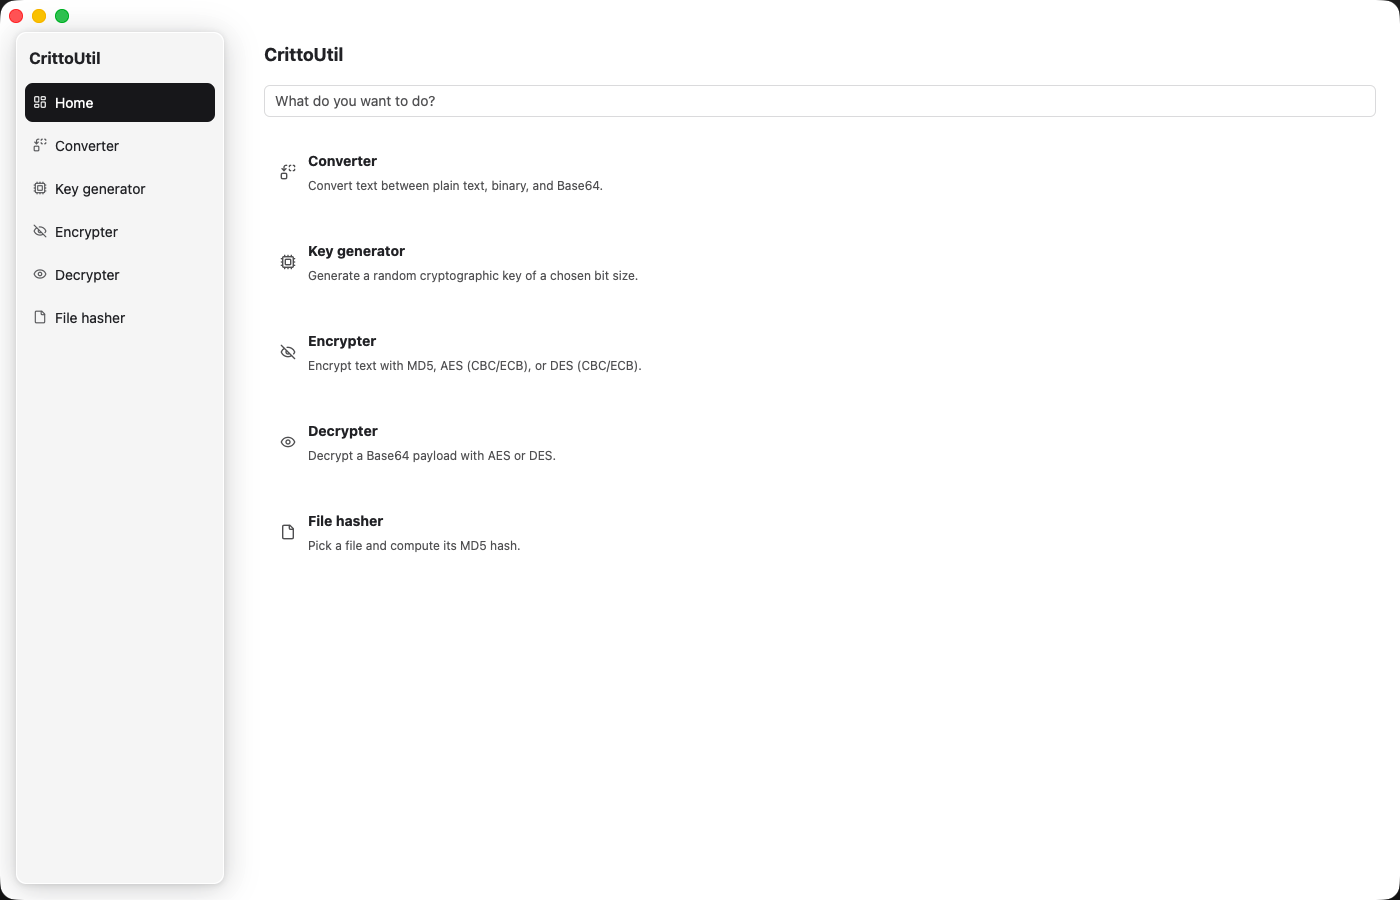
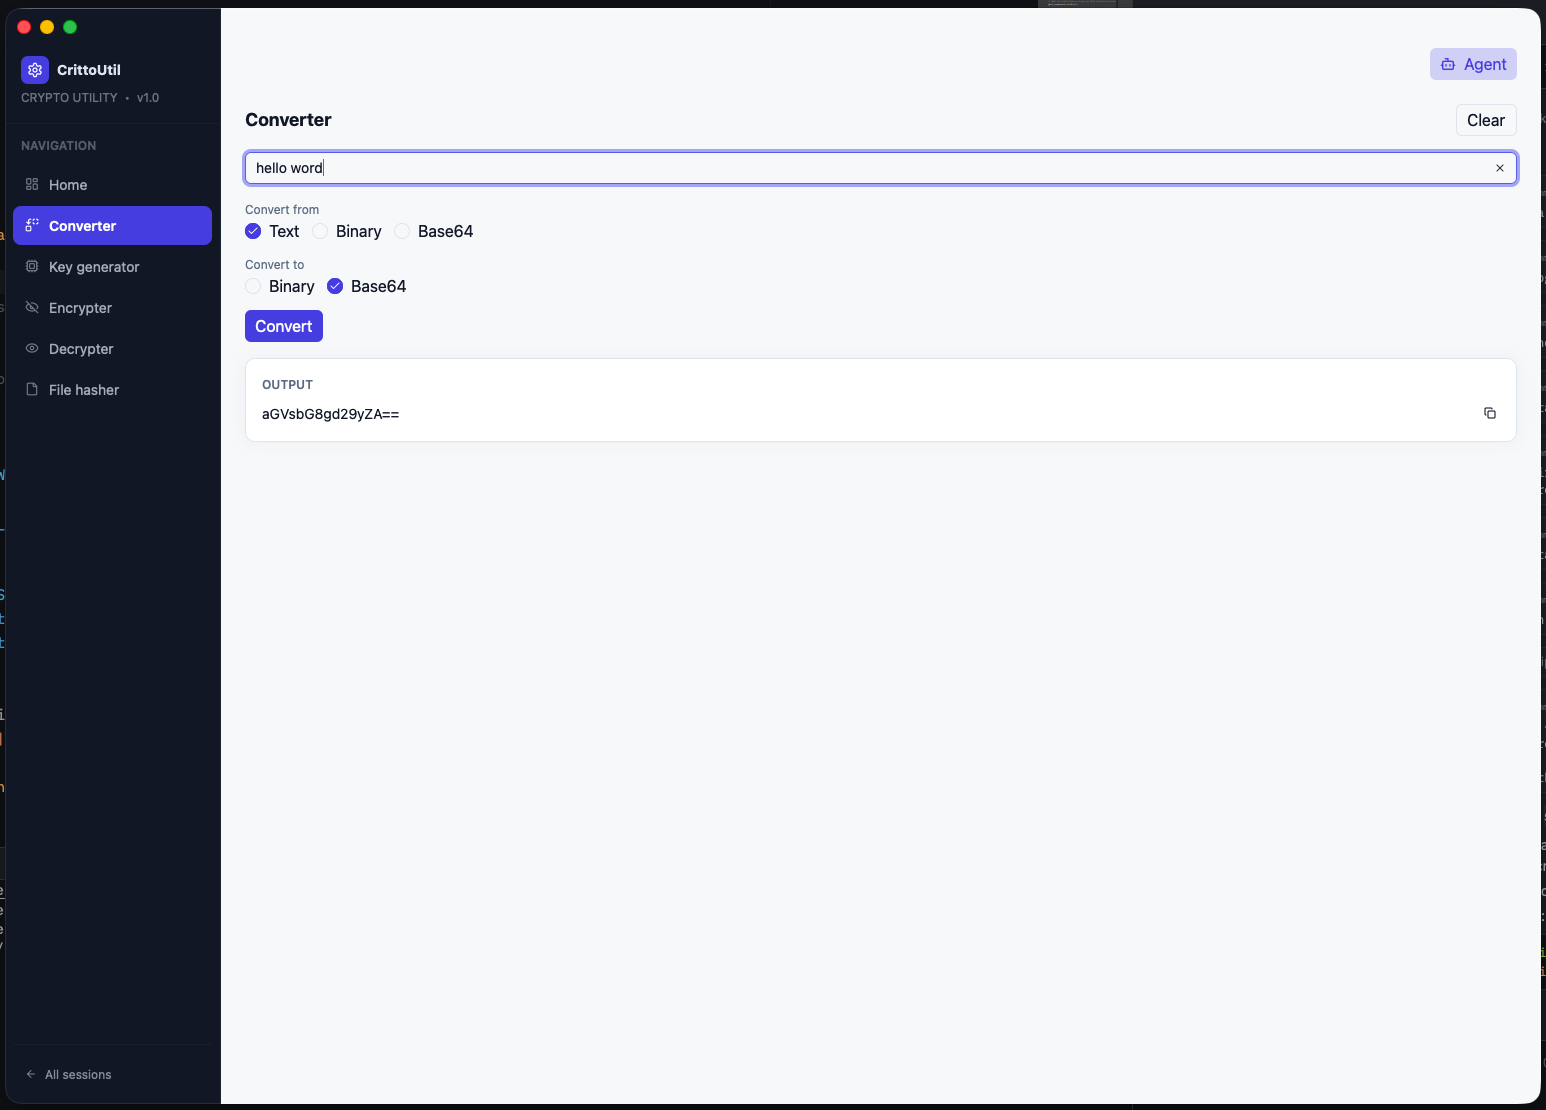
docs: refresh screenshots (edge-to-edge sidebar, slate+indigo)

diff --git a/README.md b/README.md
@@ -14,7 +14,7 @@ features, same validation rules, but native Rust UI instead of a webview.
   <img src="screenshots/04-keygen.png" width="49%" alt="Key Generator screen" />
 </p>
 
-> **Note:** screenshots above still show the previous floating-card sidebar. Since `dc714c0` the sidebar is a full-height edge-to-edge panel with the macOS traffic lights inset (`pt(28px)`) and a refreshed slate+indigo palette (`themes/custom.json`). Regenerate with `cargo run` + `screencapture -w` (select window) and overwrite `screenshots/*.png`.
+> Screenshots reflect the current edge-to-edge sidebar (traffic lights inset) and slate+indigo palette.
 
 ## Features
 
